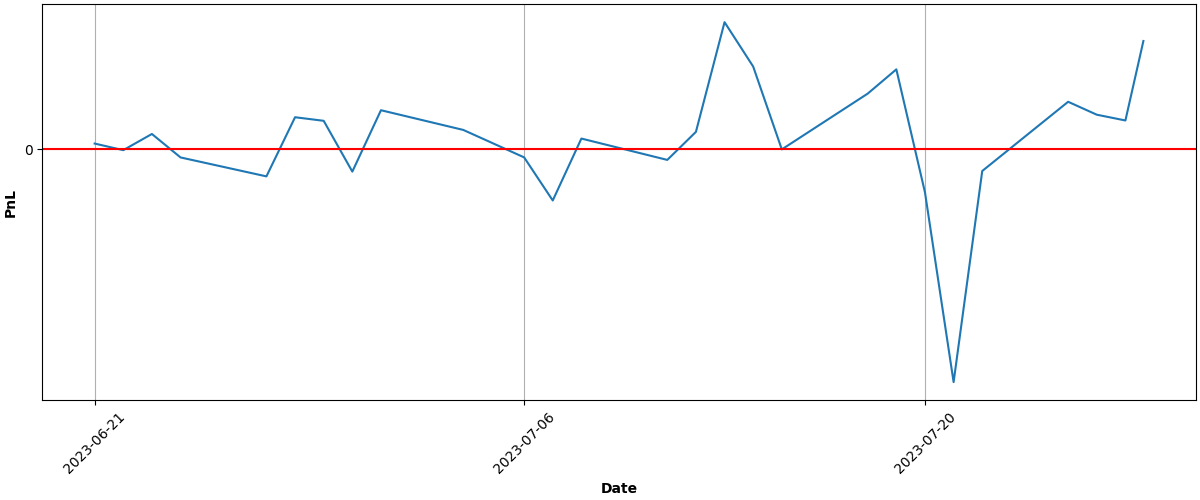
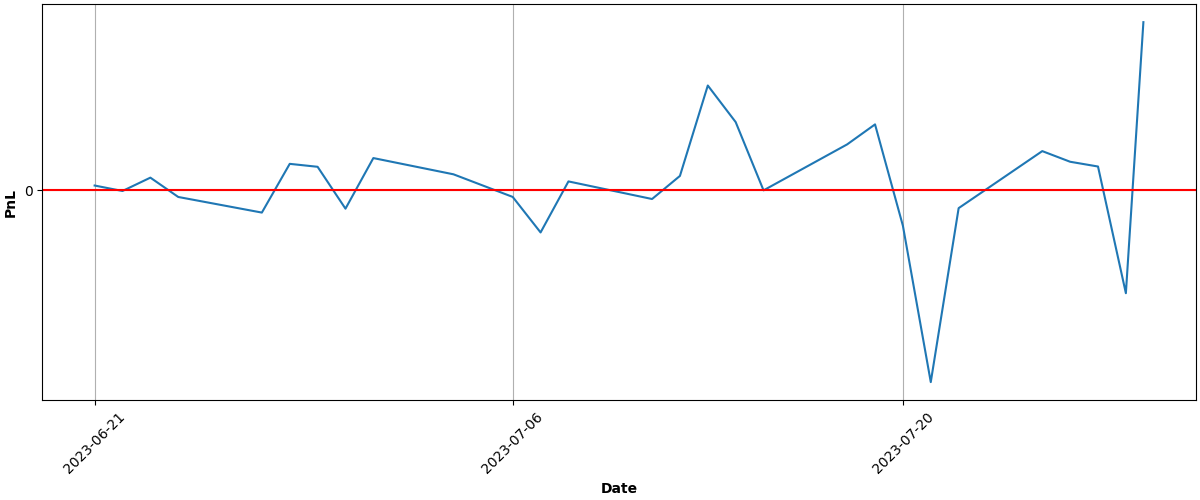
Automated Buy At Fri Jul 28 15:04:48 UTC 2023 Run ID 5693390524

diff --git a/README.md b/README.md
@@ -68,9 +68,9 @@ Results
 
 | Asset | Average Price | Current Price | ROI | 📈 |
 | --- | --- | --- | --- | --- |
-| FNGU | $190.106839066 | $198.35 | 4.34% | &#128994;&#128515; |
-| SVIX | $27.79715 | $30.59 | 10.05% | &#128994;&#128515; |
-| **Total** |  |  | **7.44%** | &#128994;&#128518; |
+| FNGU | $190.429660263 | $199.95 | 5.00% | &#128994;&#128515; |
+| SVIX | $27.79715 | $30.018 | 7.99% | &#128994;&#128515; |
+| **Total** |  |  | **6.60%** | &#128994;&#128518; |
 
 ### PnL over time (calculations may not be accurate):
 
@@ -81,6 +81,6 @@ Results
 ---
 
 
-Updated at 2023-07-27 15:04:45
+Updated at 2023-07-28 15:05:12
 
 
